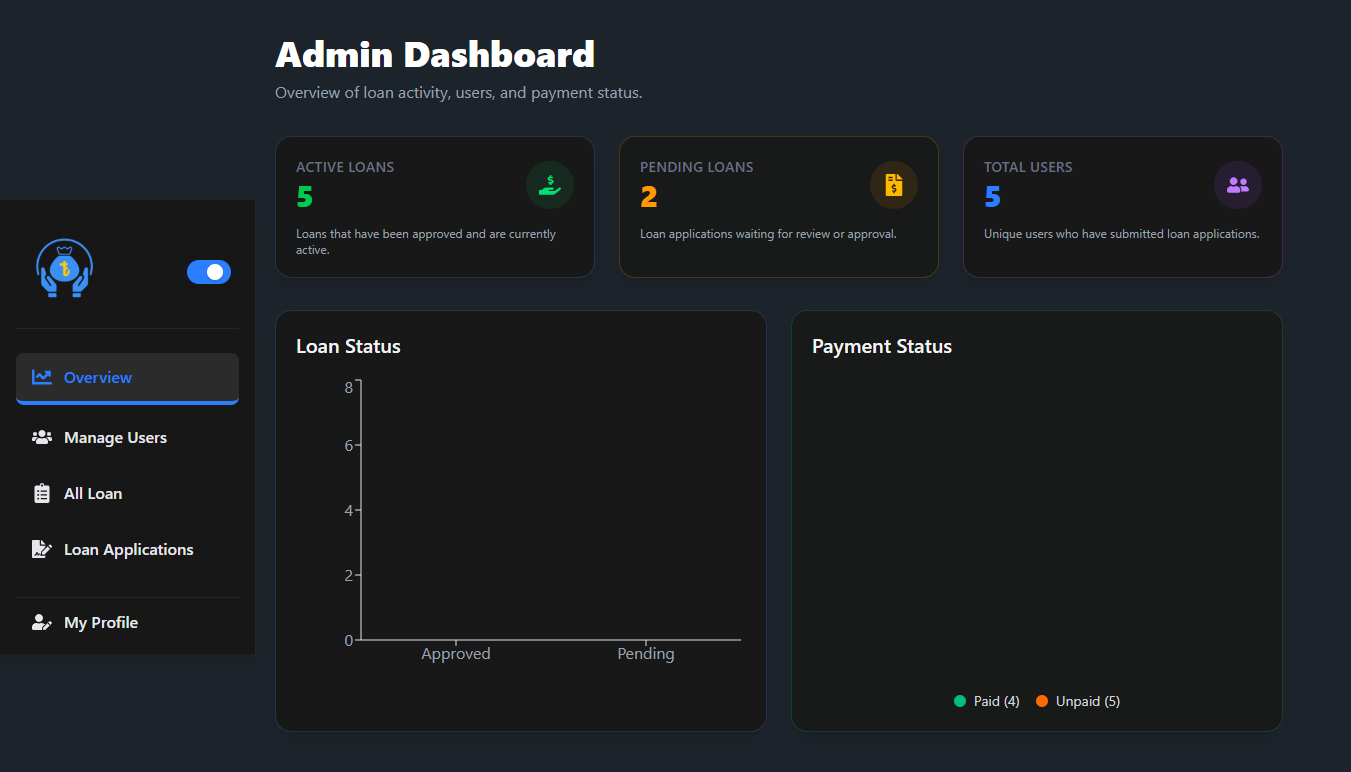
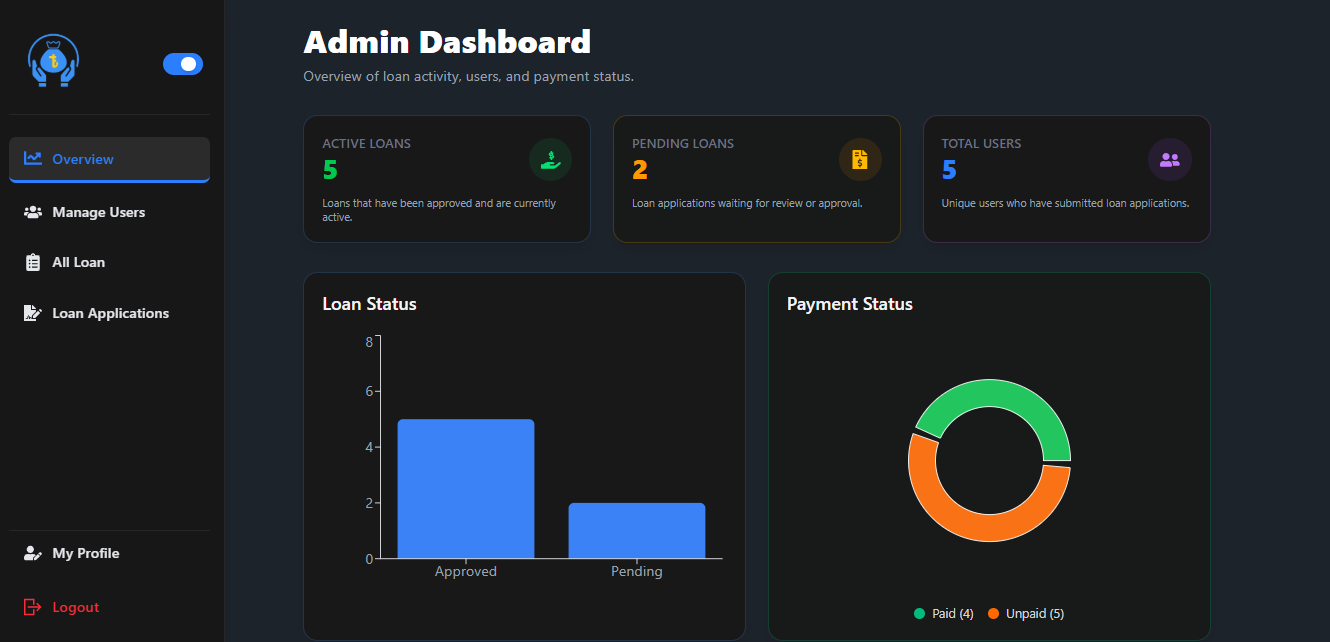
fixing Chart width and update README file

diff --git a/src/components/Dashboard/Statistics/BorrowerStatistics.jsx b/src/components/Dashboard/Statistics/BorrowerStatistics.jsx
@@ -63,8 +63,8 @@ const BorrowerStatistics = () => {
   return (
     <div className="p-6 md:p-8 min-h-screen font-sans bg-orange-50 dark:bg-transparent transition-colors duration-300">
       <Helmet>
-                    <title>RinTrack | Borrower Dashboard</title>
-                  </Helmet>
+        <title>RinTrack | Borrower Dashboard</title>
+      </Helmet>
 
       <h1 className="mt-6 md:mt-0 text-3xl md:text-4xl font-extrabold mb-2 text-gray-900 dark:text-white">
         My Loan Overview
@@ -81,7 +81,8 @@ const BorrowerStatistics = () => {
 
       {isError && (
         <p className="mb-4 text-sm text-red-500">
-          Failed to load your loan statistics: {error?.message || "Unknown error"}
+          Failed to load your loan statistics:{" "}
+          {error?.message || "Unknown error"}
         </p>
       )}
 
@@ -124,7 +125,7 @@ const BorrowerStatistics = () => {
           </p>
         </div>
 
-            <div className="bg-orange-100 dark:bg-neutral-900/90 rounded-2xl shadow-lg border border-gray-200 dark:border-emerald-400/20 p-5">
+        <div className="bg-orange-100 dark:bg-neutral-900/90 rounded-2xl shadow-lg border border-gray-200 dark:border-emerald-400/20 p-5">
           <div className="flex items-center justify-between mb-3">
             <div>
               <p className="text-sm font-semibold uppercase tracking-wide text-gray-400 dark:text-gray-500">
@@ -143,7 +144,7 @@ const BorrowerStatistics = () => {
           </p>
         </div>
 
-         <div className="bg-orange-100 dark:bg-neutral-900/90 rounded-2xl shadow-lg border border-gray-200 dark:border-purple-400/20 p-5">
+        <div className="bg-orange-100 dark:bg-neutral-900/90 rounded-2xl shadow-lg border border-gray-200 dark:border-purple-400/20 p-5">
           <div className="flex items-center justify-between mb-3">
             <div>
               <p className="text-sm font-semibold uppercase tracking-wide text-gray-400 dark:text-gray-500">
@@ -163,12 +164,12 @@ const BorrowerStatistics = () => {
         </div>
       </div>
 
-      <div className="bg-orange-100 dark:bg-neutral-900/90 rounded-2xl shadow-lg border border-gray-200 dark:border-blue-400/20 p-5">
+      <div className="bg-orange-100 dark:bg-neutral-900/90 rounded-2xl shadow-lg border border-gray-200 dark:border-blue-400/20 p-5 min-w-0">
         <h2 className="text-xl font-semibold mb-4 text-gray-800 dark:text-gray-100">
           Loan & Payment Status
         </h2>
-        <div style={{ width: "100%", height: 300 }}>
-          <ResponsiveContainer>
+        <div className="w-full h-72">
+          <ResponsiveContainer width="100%" height="100%">
             <BarChart data={chartData}>
               <XAxis
                 dataKey="name"

diff --git a/src/components/Dashboard/Statistics/ManagerStatistics.jsx b/src/components/Dashboard/Statistics/ManagerStatistics.jsx
@@ -132,12 +132,12 @@ const ManagerStatistics = () => {
       </div>
 
       <div className="grid grid-cols-1 lg:grid-cols-2 gap-6">
-        <div className="bg-orange-100 dark:bg-neutral-900/90 rounded-2xl shadow-lg border border-gray-200 dark:border-blue-400/20 p-5">
+        <div className="bg-orange-100 dark:bg-neutral-900/90 rounded-2xl shadow-lg border border-gray-200 dark:border-blue-400/20 p-5 min-w-0">
           <h2 className="text-xl font-semibold mb-4 text-gray-800 dark:text-gray-100">
             Loan Status
           </h2>
-          <div style={{ width: "100%", height: 300 }}>
-            <ResponsiveContainer>
+          <div className="w-full h-72">
+            <ResponsiveContainer width="100%" height="100%">
               <BarChart data={barData}>
                 <XAxis
                   dataKey="name"
@@ -165,12 +165,12 @@ const ManagerStatistics = () => {
           </div>
         </div>
 
-        <div className="bg-orange-100 dark:bg-neutral-900/90 rounded-2xl shadow-lg border border-gray-200 dark:border-emerald-400/20 p-5">
+        <div className="bg-orange-100 dark:bg-neutral-900/90 rounded-2xl shadow-lg border border-gray-200 dark:border-emerald-400/20 p-5 min-w-0">
           <h2 className="text-xl font-semibold mb-4 text-gray-800 dark:text-gray-100">
             Payment Status
           </h2>
-          <div style={{ width: "100%", height: 300 }}>
-            <ResponsiveContainer>
+          <div className="w-full h-72">
+            <ResponsiveContainer width="100%" height="100%">
               <PieChart>
                 <Pie
                   data={pieData}

diff --git a/src/components/Dashboard/Statistics/AdminStatistics.jsx b/src/components/Dashboard/Statistics/AdminStatistics.jsx
@@ -131,12 +131,12 @@ const AdminStatistics = () => {
       </div>
 
       <div className="grid grid-cols-1 lg:grid-cols-2 gap-6">
-        <div className="bg-orange-100 dark:bg-neutral-900/90 rounded-2xl shadow-lg border border-gray-200 dark:border-blue-400/20 p-5">
+        <div className="bg-orange-100 dark:bg-neutral-900/90 rounded-2xl shadow-lg border border-gray-200 dark:border-blue-400/20 p-5 min-w-0">
           <h2 className="text-xl font-semibold mb-4 text-gray-800 dark:text-gray-100">
             Loan Status
           </h2>
-          <div style={{ width: "100%", height: 300 }}>
-            <ResponsiveContainer>
+          <div className="w-full h-72">
+            <ResponsiveContainer width="100%" height="100%">
               <BarChart data={barData}>
                 <XAxis
                   dataKey="name"
@@ -164,12 +164,12 @@ const AdminStatistics = () => {
           </div>
         </div>
 
-        <div className="bg-orange-100 dark:bg-neutral-900/90 rounded-2xl shadow-lg border border-gray-200 dark:border-emerald-400/20 p-5">
+        <div className="bg-orange-100 dark:bg-neutral-900/90 rounded-2xl shadow-lg border border-gray-200 dark:border-emerald-400/20 p-5 min-w-0">
           <h2 className="text-xl font-semibold mb-4 text-gray-800 dark:text-gray-100">
             Payment Status
           </h2>
-          <div style={{ width: "100%", height: 300 }}>
-            <ResponsiveContainer>
+          <div className="w-full h-72">
+            <ResponsiveContainer width="100%" height="100%">
               <PieChart>
                 <Pie
                   data={pieData}

diff --git a/README.md b/README.md
@@ -1,4 +1,4 @@
-# RinTrack <img src="/logo.png" width="45" alt="RinTrack Logo" style="vertical-align: middle;" /> - Microloan Request & Approval Tracker System
+# RinTrack <img src="./public/logo.png" width="45" alt="RinTrack Logo" style="vertical-align: middle;" /> - Microloan Request & Approval Tracker System
 
 
 
@@ -68,7 +68,7 @@ RinTrack simplifies the entire microloan lifecycle by providing a **fast, paperl
 
 - Add, manage, and update loans.
 - Review and verify loan applications
-- Update loan applications status (Pending, Approved, //Rejected) or Approve or reject loan requests
+- Update loan applications status (Approved, Rejected)
 - Manage borrower information
 - Monitor active loans and EMI schedules
 
@@ -108,7 +108,7 @@ RinTrack simplifies the entire microloan lifecycle by providing a **fast, paperl
 - Node.js
 - Express.js
 - MongoDB
-- JWT (///// Firebase SDK )
+- JWT ( Firebase Authentication using JWT tokens )
 - Stripe API
 
 ### 🗃 Authentication & Hosting
